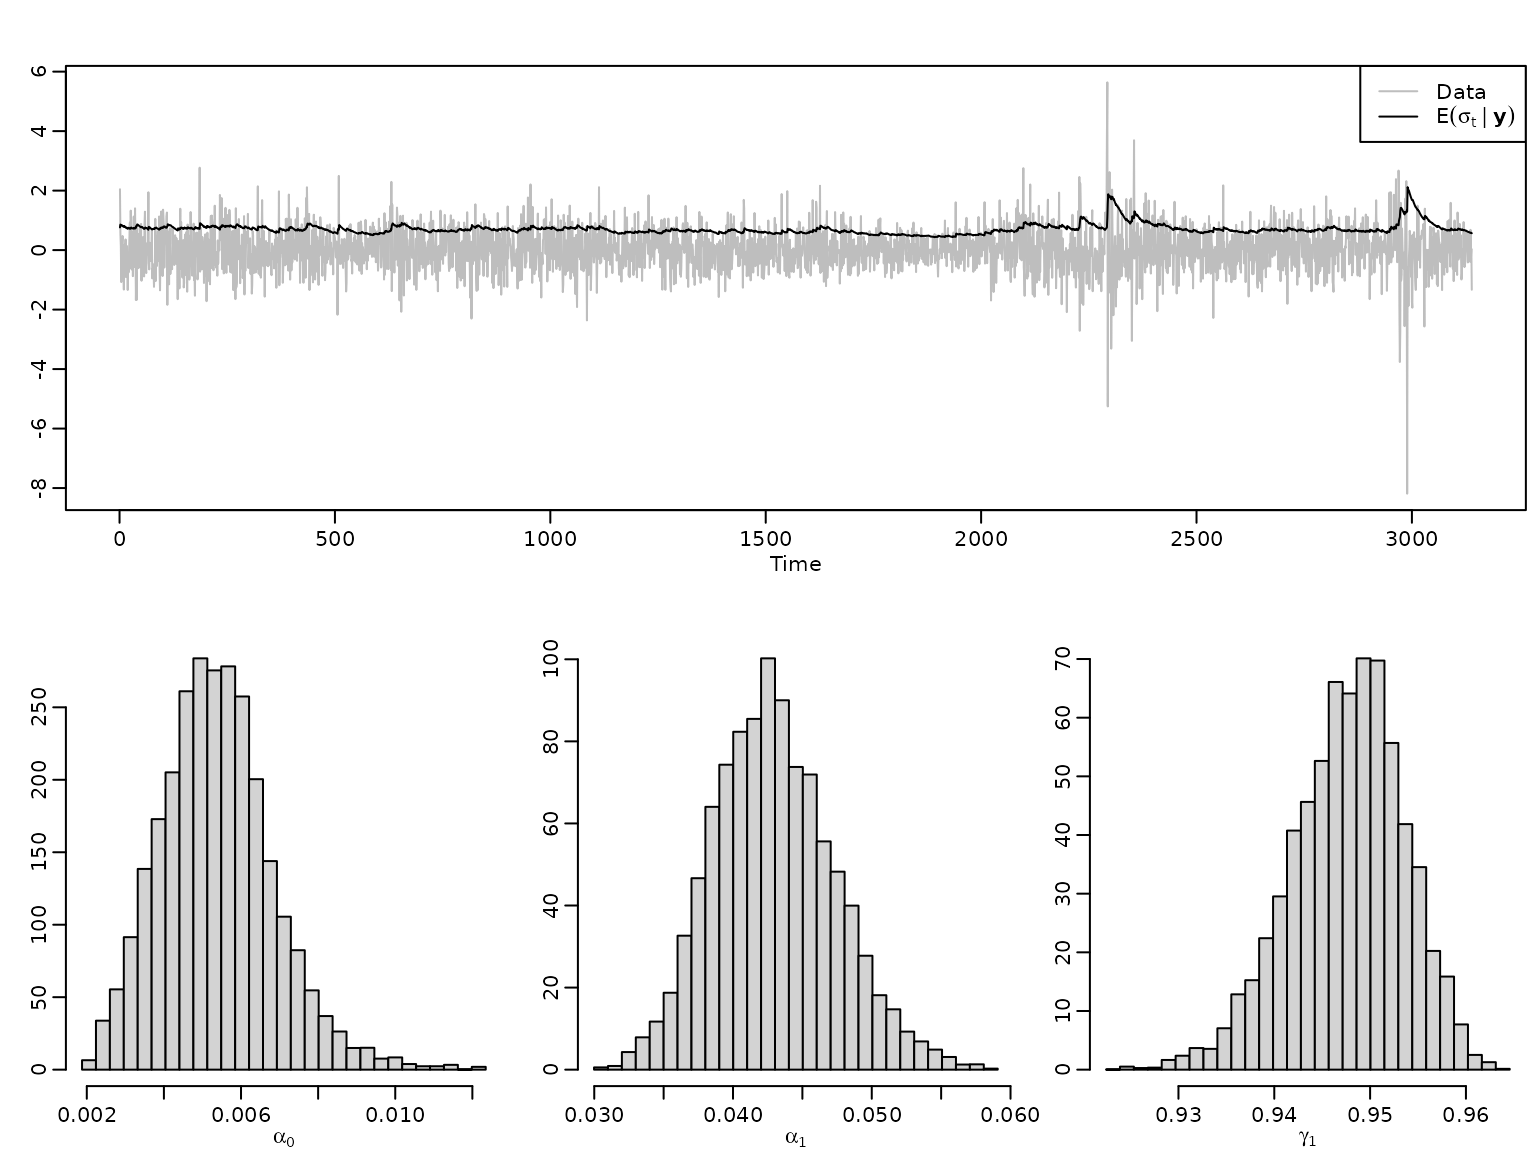
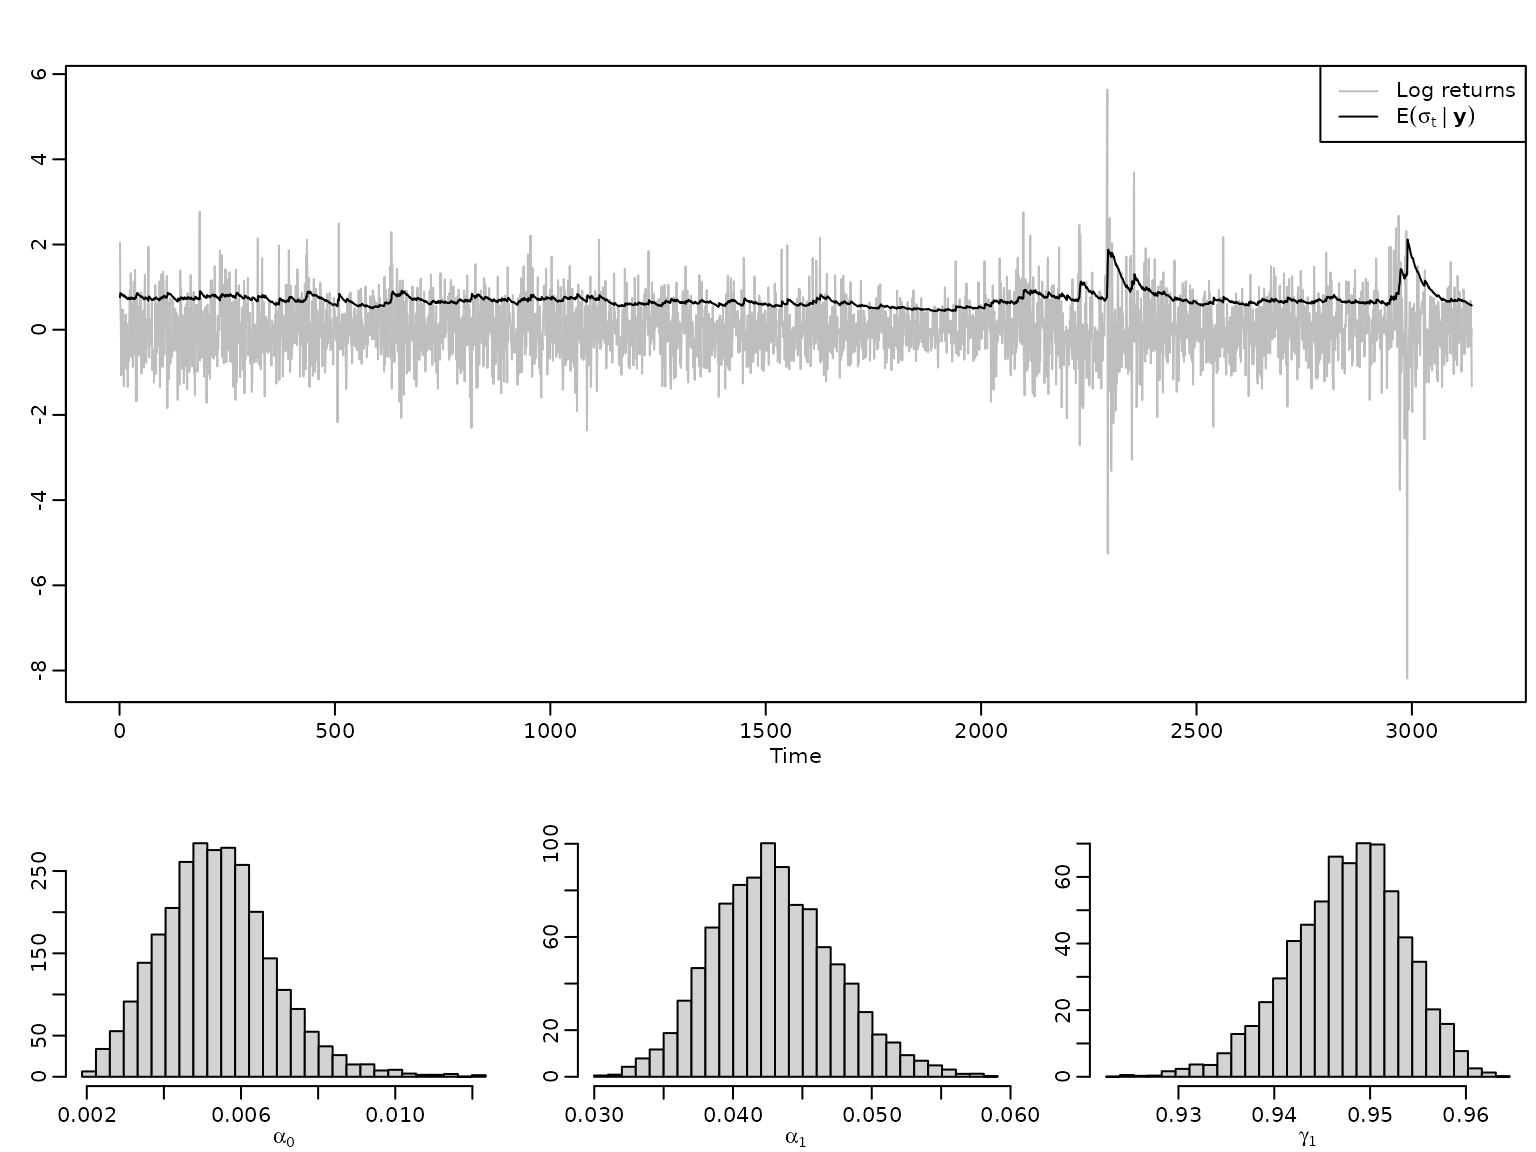
Deploying to gh-pages from @ gregorkastner/BayesianLearningCode@1dc648b68fead7879e3a54c6cc50823cfe062847 🚀

diff --git a/articles/Chapter09.html b/articles/Chapter09.html
@@ -886,7 +886,7 @@ conditional standard deviations (along with the data).</p>
 <span></span>
 <span><span class="fu"><a href="https://rdrr.io/r/stats/ts.plot.html" class="external-link">ts.plot</a></span><span class="op">(</span><span class="va">y</span>, col <span class="op">=</span> <span class="st">"gray"</span>, ylab <span class="op">=</span> <span class="st">""</span><span class="op">)</span></span>
 <span><span class="fu"><a href="https://rdrr.io/r/graphics/lines.html" class="external-link">lines</a></span><span class="op">(</span><span class="fu"><a href="https://rdrr.io/r/base/colSums.html" class="external-link">colMeans</a></span><span class="op">(</span><span class="fu"><a href="https://rdrr.io/r/base/MathFun.html" class="external-link">sqrt</a></span><span class="op">(</span><span class="va">res</span><span class="op">$</span><span class="va">sigma2</span><span class="op">)</span><span class="op">)</span><span class="op">)</span></span>
-<span><span class="fu"><a href="https://rdrr.io/r/graphics/legend.html" class="external-link">legend</a></span><span class="op">(</span><span class="st">"topright"</span>, legend <span class="op">=</span> <span class="fu"><a href="https://rdrr.io/r/base/c.html" class="external-link">c</a></span><span class="op">(</span><span class="st">"Data"</span>, <span class="fu"><a href="https://rdrr.io/r/base/bquote.html" class="external-link">bquote</a></span><span class="op">(</span><span class="fu">E</span><span class="op">(</span><span class="va">sigma</span><span class="op">[</span><span class="va">t</span><span class="op">]</span> <span class="op">~</span> <span class="st">"|"</span> <span class="op">~</span>  <span class="fu">bold</span><span class="op">(</span><span class="va">y</span><span class="op">)</span><span class="op">)</span><span class="op">)</span><span class="op">)</span>,</span>
+<span><span class="fu"><a href="https://rdrr.io/r/graphics/legend.html" class="external-link">legend</a></span><span class="op">(</span><span class="st">"topright"</span>, legend <span class="op">=</span> <span class="fu"><a href="https://rdrr.io/r/base/c.html" class="external-link">c</a></span><span class="op">(</span><span class="st">"Log returns"</span>, <span class="fu"><a href="https://rdrr.io/r/base/bquote.html" class="external-link">bquote</a></span><span class="op">(</span><span class="fu">E</span><span class="op">(</span><span class="va">sigma</span><span class="op">[</span><span class="va">t</span><span class="op">]</span> <span class="op">~</span> <span class="st">"|"</span> <span class="op">~</span>  <span class="fu">bold</span><span class="op">(</span><span class="va">y</span><span class="op">)</span><span class="op">)</span><span class="op">)</span><span class="op">)</span>,</span>
 <span>       lty <span class="op">=</span> <span class="fl">1</span>, col <span class="op">=</span> <span class="fu"><a href="https://rdrr.io/r/base/c.html" class="external-link">c</a></span><span class="op">(</span><span class="st">"gray"</span>, <span class="fl">1</span><span class="op">)</span><span class="op">)</span></span>
 <span><span class="fu">myhist</span><span class="op">(</span><span class="va">res</span><span class="op">$</span><span class="va">para</span><span class="op">$</span><span class="va">alpha0</span>, xlab <span class="op">=</span> <span class="fu"><a href="https://rdrr.io/r/base/expression.html" class="external-link">expression</a></span><span class="op">(</span><span class="va">alpha</span><span class="op">[</span><span class="fl">0</span><span class="op">]</span><span class="op">)</span><span class="op">)</span></span>
 <span><span class="fu">myhist</span><span class="op">(</span><span class="va">res</span><span class="op">$</span><span class="va">para</span><span class="op">$</span><span class="va">alpha1</span>, xlab <span class="op">=</span> <span class="fu"><a href="https://rdrr.io/r/base/expression.html" class="external-link">expression</a></span><span class="op">(</span><span class="va">alpha</span><span class="op">[</span><span class="fl">1</span><span class="op">]</span><span class="op">)</span><span class="op">)</span></span>
@@ -959,7 +959,8 @@ from above.</p>
 <span><span class="va">pastwindow</span> <span class="op">&lt;-</span> <span class="op">(</span><span class="va">cutoff</span> <span class="op">-</span> <span class="va">nahead</span><span class="op">)</span><span class="op">:</span><span class="va">cutoff</span></span>
 <span><span class="va">predwindow</span> <span class="op">&lt;-</span> <span class="va">cutoff</span> <span class="op">+</span> <span class="fl">1</span><span class="op">:</span><span class="va">nahead</span></span>
 <span><span class="fu"><a href="https://rdrr.io/r/graphics/plot.default.html" class="external-link">plot</a></span><span class="op">(</span><span class="va">plotwindow</span>, <span class="va">y</span><span class="op">[</span><span class="va">plotwindow</span><span class="op">]</span>, xlab <span class="op">=</span> <span class="st">""</span>, ylab <span class="op">=</span> <span class="st">""</span>, col <span class="op">=</span> <span class="st">"gray"</span>, type <span class="op">=</span> <span class="st">"l"</span>,</span>
-<span>     main <span class="op">=</span> <span class="st">"Static predictions"</span>, ylim <span class="op">=</span> <span class="fu"><a href="https://rdrr.io/r/base/range.html" class="external-link">range</a></span><span class="op">(</span><span class="va">predstaticquants</span>, <span class="va">y</span><span class="op">[</span><span class="va">plotwindow</span><span class="op">]</span><span class="op">)</span><span class="op">)</span></span>
+<span>     main <span class="op">=</span> <span class="st">"Multi-step-ahead forecasting at t = 2990"</span>,</span>
+<span>     ylim <span class="op">=</span> <span class="fu"><a href="https://rdrr.io/r/base/range.html" class="external-link">range</a></span><span class="op">(</span><span class="va">predstaticquants</span>, <span class="va">y</span><span class="op">[</span><span class="va">plotwindow</span><span class="op">]</span><span class="op">)</span><span class="op">)</span></span>
 <span><span class="fu"><a href="https://rdrr.io/r/graphics/abline.html" class="external-link">abline</a></span><span class="op">(</span>h <span class="op">=</span> <span class="fl">0</span>, lty <span class="op">=</span> <span class="fl">3</span>, col <span class="op">=</span> <span class="st">"gray"</span><span class="op">)</span></span>
 <span><span class="fu"><a href="https://rdrr.io/r/graphics/abline.html" class="external-link">abline</a></span><span class="op">(</span>v <span class="op">=</span> <span class="va">cutoff</span>, lty <span class="op">=</span> <span class="fl">3</span><span class="op">)</span></span>
 <span><span class="fu"><a href="https://rdrr.io/r/graphics/lines.html" class="external-link">lines</a></span><span class="op">(</span><span class="va">pastwindow</span>, <span class="fu"><a href="https://rdrr.io/r/base/colSums.html" class="external-link">colMeans</a></span><span class="op">(</span><span class="fu"><a href="https://rdrr.io/r/base/MathFun.html" class="external-link">sqrt</a></span><span class="op">(</span><span class="va">restrain</span><span class="op">$</span><span class="va">sigma2</span><span class="op">[</span>, <span class="va">pastwindow</span><span class="op">]</span><span class="op">)</span><span class="op">)</span>, col <span class="op">=</span> <span class="fl">4</span><span class="op">)</span></span>
@@ -973,13 +974,14 @@ from above.</p>
 <span><span class="op">}</span></span>
 <span></span>
 <span><span class="fu"><a href="https://rdrr.io/r/graphics/plot.default.html" class="external-link">plot</a></span><span class="op">(</span><span class="va">plotwindow</span>, <span class="va">y</span><span class="op">[</span><span class="va">plotwindow</span><span class="op">]</span>, xlab <span class="op">=</span> <span class="st">""</span>, ylab <span class="op">=</span> <span class="st">""</span>, col <span class="op">=</span> <span class="st">"gray"</span>, type <span class="op">=</span> <span class="st">"l"</span>,</span>
-<span>     main <span class="op">=</span> <span class="st">"Dynamic predictions"</span>, ylim <span class="op">=</span> <span class="fu"><a href="https://rdrr.io/r/base/range.html" class="external-link">range</a></span><span class="op">(</span><span class="va">predstaticquants</span>, <span class="va">y</span><span class="op">[</span><span class="va">plotwindow</span><span class="op">]</span><span class="op">)</span><span class="op">)</span></span>
+<span>     main <span class="op">=</span> <span class="st">"Expanding window one-step-ahead forecasting"</span>,</span>
+<span>     ylim <span class="op">=</span> <span class="fu"><a href="https://rdrr.io/r/base/range.html" class="external-link">range</a></span><span class="op">(</span><span class="va">predstaticquants</span>, <span class="va">y</span><span class="op">[</span><span class="va">plotwindow</span><span class="op">]</span><span class="op">)</span><span class="op">)</span></span>
 <span><span class="fu"><a href="https://rdrr.io/r/graphics/abline.html" class="external-link">abline</a></span><span class="op">(</span>h <span class="op">=</span> <span class="fl">0</span>, lty <span class="op">=</span> <span class="fl">3</span>, col <span class="op">=</span> <span class="st">"gray"</span><span class="op">)</span></span>
 <span><span class="fu"><a href="https://rdrr.io/r/graphics/lines.html" class="external-link">lines</a></span><span class="op">(</span><span class="va">predwindow</span>, <span class="va">predsigmamean</span>, col <span class="op">=</span> <span class="fl">4</span><span class="op">)</span></span>
 <span><span class="kw">for</span> <span class="op">(</span><span class="va">i</span> <span class="kw">in</span> <span class="fu"><a href="https://rdrr.io/r/base/seq.html" class="external-link">seq_along</a></span><span class="op">(</span><span class="va">thesequants</span><span class="op">)</span><span class="op">)</span> <span class="op">{</span></span>
 <span>  <span class="fu"><a href="https://rdrr.io/r/graphics/lines.html" class="external-link">lines</a></span><span class="op">(</span><span class="va">cutoff</span> <span class="op">+</span> <span class="fl">1</span><span class="op">:</span><span class="va">nahead</span>, <span class="va">predquants</span><span class="op">[</span><span class="va">i</span>, <span class="op">]</span>, col <span class="op">=</span> <span class="fl">2</span><span class="op">)</span></span>
 <span><span class="op">}</span></span>
-<span><span class="fu"><a href="https://rdrr.io/r/graphics/legend.html" class="external-link">legend</a></span><span class="op">(</span><span class="st">"bottomleft"</span>, legend <span class="op">=</span> <span class="fu"><a href="https://rdrr.io/r/base/c.html" class="external-link">c</a></span><span class="op">(</span><span class="st">"Data"</span>, <span class="st">"Conditional std. dev."</span>,</span>
+<span><span class="fu"><a href="https://rdrr.io/r/graphics/legend.html" class="external-link">legend</a></span><span class="op">(</span><span class="st">"bottomleft"</span>, legend <span class="op">=</span> <span class="fu"><a href="https://rdrr.io/r/base/c.html" class="external-link">c</a></span><span class="op">(</span><span class="st">"Log returns"</span>, <span class="st">"Conditional std. dev."</span>,</span>
 <span>                                <span class="st">"Long-run std. dev."</span>, <span class="st">"Predictive quantiles"</span><span class="op">)</span>,</span>
 <span>       col <span class="op">=</span> <span class="fu"><a href="https://rdrr.io/r/base/c.html" class="external-link">c</a></span><span class="op">(</span><span class="st">"gray"</span>, <span class="st">"blue"</span>, <span class="st">"blue"</span>, <span class="st">"red"</span><span class="op">)</span>, lty <span class="op">=</span> <span class="fu"><a href="https://rdrr.io/r/base/c.html" class="external-link">c</a></span><span class="op">(</span><span class="fl">1</span>, <span class="fl">1</span>, <span class="fl">2</span>, <span class="fl">1</span><span class="op">)</span><span class="op">)</span></span></code></pre></div>
 <p><img src="Chapter09_files/figure-html/unnamed-chunk-43-1.png" class="r-plt" alt="" width="768"></p>

diff --git a/articles/Chapter11.html b/articles/Chapter11.html
@@ -241,7 +241,8 @@ function.</p>
 <span><span class="fu"><a href="https://rdrr.io/r/base/Round.html" class="external-link">round</a></span><span class="op">(</span><span class="va">logSD</span>, <span class="fl">2</span><span class="op">)</span></span>
 <span><span class="co">#&gt; 0 vs 1 1 vs 2 2 vs 3 3 vs 4 </span></span>
 <span><span class="co">#&gt; -35.98  -1.18   0.46   2.75</span></span></code></pre></div>
-<p>Not that the first value of logSD is numerically rather unstable.</p>
+<p>Note that the first value of logSD is numerically rather
+unstable.</p>
 <p>To reproduce this using Chib’s method, we need to be careful to
 compare models which were estimated conditional on the same initial
 data. Thus, we re-estimate conditioning on one extra initial

diff --git a/articles/Chapter09.md b/articles/Chapter09.md
@@ -857,7 +857,7 @@ myhist <- function(dat, breaks = 30, freq = FALSE, ...) {
 
 ts.plot(y, col = "gray", ylab = "")
 lines(colMeans(sqrt(res$sigma2)))
-legend("topright", legend = c("Data", bquote(E(sigma[t] ~ "|" ~  bold(y)))),
+legend("topright", legend = c("Log returns", bquote(E(sigma[t] ~ "|" ~  bold(y)))),
        lty = 1, col = c("gray", 1))
 myhist(res$para$alpha0, xlab = expression(alpha[0]))
 myhist(res$para$alpha1, xlab = expression(alpha[1]))
@@ -954,7 +954,8 @@ plotwindow <- (cutoff - nahead):(cutoff + nahead)
 pastwindow <- (cutoff - nahead):cutoff
 predwindow <- cutoff + 1:nahead
 plot(plotwindow, y[plotwindow], xlab = "", ylab = "", col = "gray", type = "l",
-     main = "Static predictions", ylim = range(predstaticquants, y[plotwindow]))
+     main = "Multi-step-ahead forecasting at t = 2990",
+     ylim = range(predstaticquants, y[plotwindow]))
 abline(h = 0, lty = 3, col = "gray")
 abline(v = cutoff, lty = 3)
 lines(pastwindow, colMeans(sqrt(restrain$sigma2[, pastwindow])), col = 4)
@@ -968,13 +969,14 @@ for (i in seq_along(thesequants)) {
 }
 
 plot(plotwindow, y[plotwindow], xlab = "", ylab = "", col = "gray", type = "l",
-     main = "Dynamic predictions", ylim = range(predstaticquants, y[plotwindow]))
+     main = "Expanding window one-step-ahead forecasting",
+     ylim = range(predstaticquants, y[plotwindow]))
 abline(h = 0, lty = 3, col = "gray")
 lines(predwindow, predsigmamean, col = 4)
 for (i in seq_along(thesequants)) {
   lines(cutoff + 1:nahead, predquants[i, ], col = 2)
 }
-legend("bottomleft", legend = c("Data", "Conditional std. dev.",
+legend("bottomleft", legend = c("Log returns", "Conditional std. dev.",
                                 "Long-run std. dev.", "Predictive quantiles"),
        col = c("gray", "blue", "blue", "red"), lty = c(1, 1, 2, 1))
 ```

diff --git a/articles/Chapter11.md b/articles/Chapter11.md
@@ -188,7 +188,7 @@ round(logSD, 2)
 #> -35.98  -1.18   0.46   2.75
 ```
 
-Not that the first value of logSD is numerically rather unstable.
+Note that the first value of logSD is numerically rather unstable.
 
 To reproduce this using Chib’s method, we need to be careful to compare
 models which were estimated conditional on the same initial data. Thus,